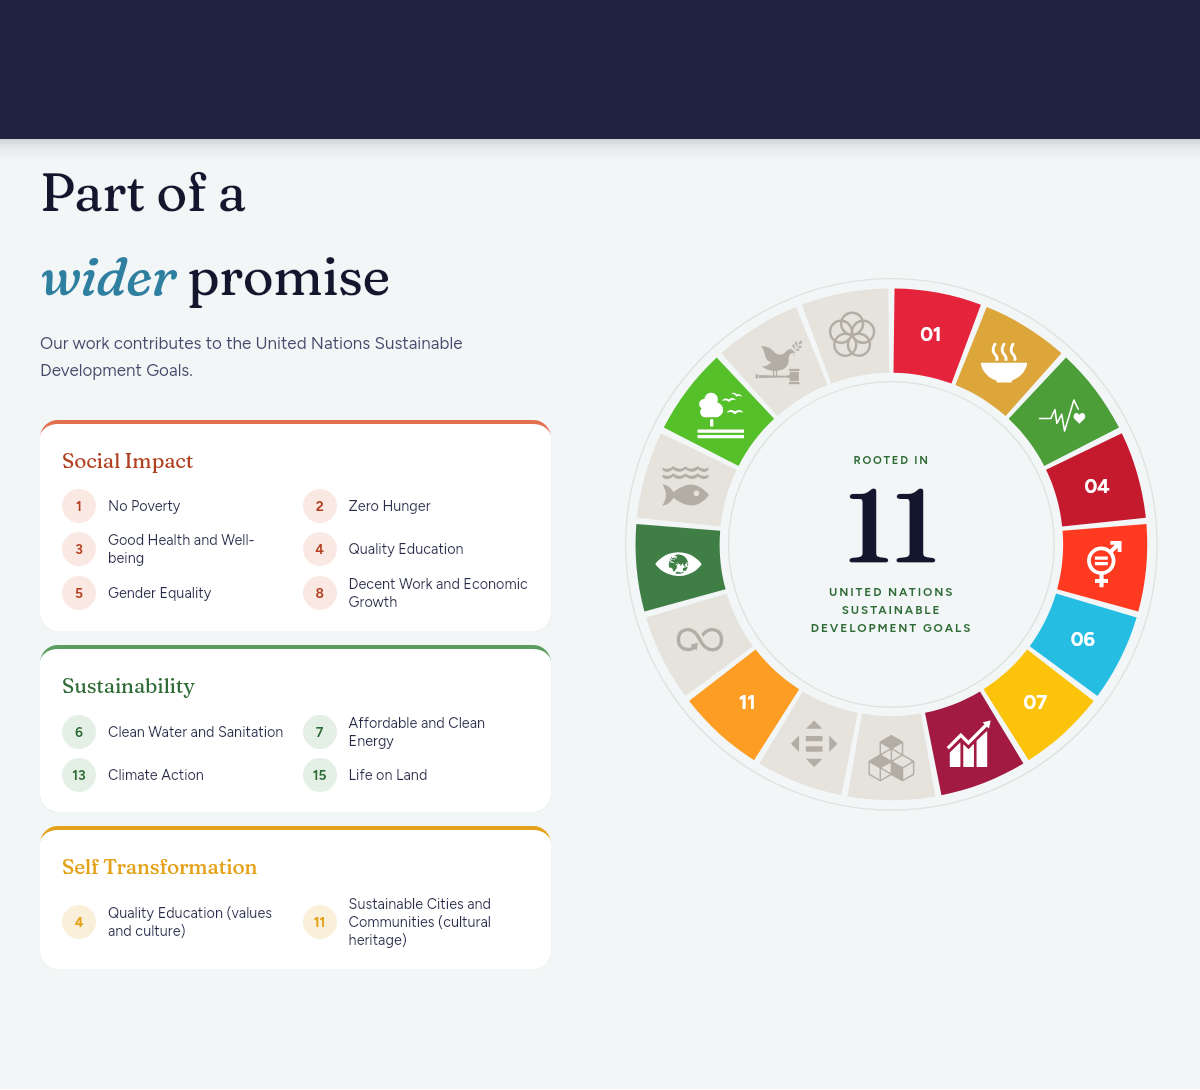
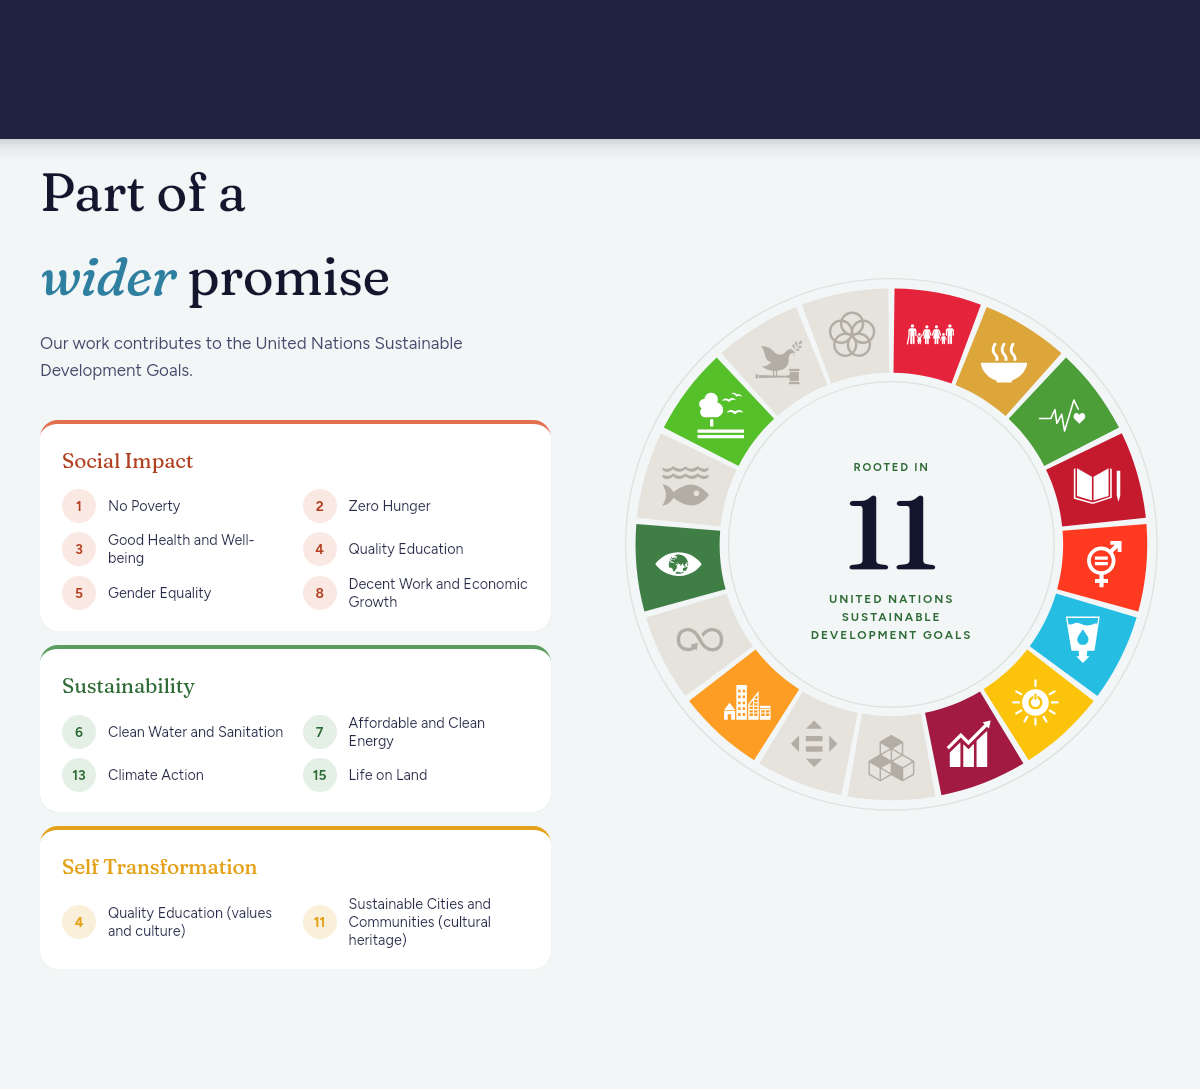
Goals wheel: official UN goal symbols around the ring and in the hover view
Claude-Session: https://claude.ai/code/session_01RSCU9Tog2TmXVif83jTYoy

diff --git a/src/_data/sdgs.js b/src/_data/sdgs.js
@@ -28,7 +28,7 @@ for (const grp of g.groups) for (const item of grp.goals) {
 // white pictograms from the official UN goal icons, one file per goal in src/_includes/sdg/
 const boxes = JSON.parse(fs.readFileSync(path.join(root, "src/_includes/sdg/boxes.json"), "utf8"));
 // show icons only once all 17 are in place, otherwise the wheel keeps its numbers
-const iconBoxes = (Object.keys(boxes).length === 17 || process.env.SDG_PREVIEW) ? boxes : {};
+const iconBoxes = Object.keys(boxes).length === 17 ? boxes : {};
 
 const C = 300, R = 286, r = 192, GAP = 1.4; // viewBox 600 × 600
 const pt = (rad, deg) => { const a = (deg - 90) * Math.PI / 180; return [C + rad * Math.cos(a), C + rad * Math.sin(a)]; };
